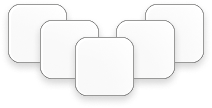
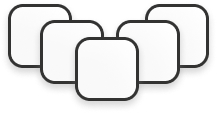
Update hero and FAQ cards with blue styling and background image
- Hero card: blue background, background image, removed animated header
- FAQ card: matches hero styling with blue background and image
- Moved "prefer to email" section outside FAQ card
- Updated card borders and padding

Changed region(s): [[0.0283, 0.0278, 0.9906, 0.9167]]

diff --git a/public/cleaner/index.html b/public/cleaner/index.html
@@ -34,39 +34,11 @@
         </div>
         <div class="hero__right">
           <div class="card-stack">
-            <div class="card-back"></div>
-            <div class="card">
-              <div class="card-header">
-                <div class="animated-bars">
-                  <div class="bar"></div><div class="bar"></div><div class="bar"></div><div class="bar"></div><div class="bar"></div>
-                  <div class="bar"></div><div class="bar"></div><div class="bar"></div><div class="bar"></div><div class="bar"></div>
-                  <div class="bar"></div><div class="bar"></div><div class="bar"></div><div class="bar"></div><div class="bar"></div>
-                  <div class="bar"></div><div class="bar"></div><div class="bar"></div><div class="bar"></div><div class="bar"></div>
-                  <div class="bar"></div><div class="bar"></div><div class="bar"></div><div class="bar"></div><div class="bar"></div>
-                  <div class="bar"></div><div class="bar"></div><div class="bar"></div><div class="bar"></div><div class="bar"></div>
-                  <div class="bar"></div><div class="bar"></div><div class="bar"></div><div class="bar"></div><div class="bar"></div>
-                  <div class="bar"></div><div class="bar"></div><div class="bar"></div><div class="bar"></div><div class="bar"></div>
-                </div>
-                <span class="pill">
-                  <span class="pill__dot"></span>
-                  start today
-                </span>
-              </div>
+            <div class="card-back card-back--blue"></div>
+            <div class="card card--blue hero-card">
               <h2 class="card__heading">join<br>happypages.</h2>
               <p class="card__tagline">ongoing conversion and growth optimisation for leaders who need to accelerate.</p>
               <button class="btn btn--coral btn--lg btn--full">see pricing</button>
-              <div class="book-call">
-                <div class="book-call__left">
-                  <img src="/assets/happypages-icon-white-alternate.png" alt="HappyPages" class="book-call__icon">
-                  <div class="book-call__text">
-                    <span class="book-call__title">book a 15-min intro call</span>
-                    <span class="book-call__link">schedule now</span>
-                  </div>
-                </div>
-                <button class="book-call__arrow" aria-label="Book a call">
-                  <span aria-hidden="true">→</span>
-                </button>
-              </div>
             </div>
           </div>
         </div>
@@ -567,38 +539,25 @@
         <!-- Right: CTA Card -->
         <div class="faq-right">
           <div class="card-stack">
-            <div class="card-back"></div>
-            <div class="card faq-card">
-              <div class="card-header">
-                <div class="animated-bars">
-                  <div class="bar"></div><div class="bar"></div><div class="bar"></div><div class="bar"></div><div class="bar"></div>
-                  <div class="bar"></div><div class="bar"></div><div class="bar"></div><div class="bar"></div><div class="bar"></div>
-                  <div class="bar"></div><div class="bar"></div><div class="bar"></div><div class="bar"></div><div class="bar"></div>
-                  <div class="bar"></div><div class="bar"></div><div class="bar"></div><div class="bar"></div><div class="bar"></div>
-                  <div class="bar"></div><div class="bar"></div><div class="bar"></div><div class="bar"></div><div class="bar"></div>
-                  <div class="bar"></div><div class="bar"></div><div class="bar"></div><div class="bar"></div><div class="bar"></div>
-                  <div class="bar"></div><div class="bar"></div><div class="bar"></div><div class="bar"></div><div class="bar"></div>
-                  <div class="bar"></div><div class="bar"></div><div class="bar"></div><div class="bar"></div><div class="bar"></div>
-                </div>
-                <span class="pill"><span class="pill__dot"></span>book a call</span>
-              </div>
+            <div class="card-back card-back--blue"></div>
+            <div class="card card--blue faq-card">
               <h2 class="card__heading">book a 15-min<br>intro call.</h2>
               <button class="faq-card__cta">book a call</button>
-              <div class="faq-email-row">
-                <div class="faq-email-left">
-                  <span class="faq-email-icon">
-                    <img src="/assets/happypages-icon-white-alternate.png" alt="">
-                  </span>
-                  <div class="faq-email-text">
-                    <span class="faq-email-label">prefer to email?</span>
-                    <span class="faq-email-address">alex@happypages.co</span>
-                  </div>
-                </div>
-                <button class="faq-email-arrow" aria-label="Send email">
-                  <span aria-hidden="true">→</span>
-                </button>
+            </div>
+          </div>
+          <div class="faq-email-row">
+            <div class="faq-email-left">
+              <span class="faq-email-icon">
+                <img src="/assets/happypages-icon-white-alternate.png" alt="">
+              </span>
+              <div class="faq-email-text">
+                <span class="faq-email-label">prefer to email?</span>
+                <span class="faq-email-address">alex@happypages.co</span>
               </div>
             </div>
+            <button class="faq-email-arrow" aria-label="Send email">
+              <span aria-hidden="true">→</span>
+            </button>
           </div>
         </div>
       </div>

diff --git a/public/cleaner/styles.css b/public/cleaner/styles.css
@@ -325,7 +325,10 @@ p {
 }
 
 .card-back--coral { background: var(--color-coral); }
-.card-back--blue { background: var(--color-blue); }
+.card-back--blue {
+  background: var(--color-blue);
+  border: none;
+}
 .card-back--cyan { background: var(--color-cyan); }
 
 /* Small offset variant for benefit cards */
@@ -367,6 +370,7 @@ p {
 .card--blue {
   background: var(--color-blue);
   color: var(--color-white);
+  border: none;
   box-shadow:
     var(--shadow-colored),
     0 4px 12px rgba(21,79,251,0.3);
@@ -654,6 +658,18 @@ p {
   width: 380px;
   position: relative;
   z-index: 1;
+}
+
+.hero-card {
+  background-image: url('/assets/happypages-hero-small-3.png');
+  background-size: cover;
+  background-position: center;
+  padding-bottom: calc(var(--card-padding) + 150px);
+  border: 2px solid var(--color-blue);
+}
+
+.hero-card .card__tagline {
+  color: var(--color-white);
 }
 
 /* Hero Responsive */
@@ -2066,14 +2082,19 @@ p {
   padding: var(--card-padding);
   display: flex;
   flex-direction: column;
+  background-image: url('/assets/happypages-hero-small-3.png');
+  background-size: cover;
+  background-position: center;
+  padding-bottom: calc(var(--card-padding) + 150px);
+  border: 2px solid var(--color-blue);
 }
 
 .faq-card .card__heading {
   margin-bottom: var(--space-5);
 }
 
-.faq-card .card-header.is-animating .bar {
-  animation-play-state: running;
+.faq-card .card__tagline {
+  color: var(--color-white);
 }
 
 .faq-card__cta {
@@ -2107,6 +2128,7 @@ p {
   box-shadow:
     inset 1px 1px 0 rgba(255,255,255,1),
     inset -1px -1px 0 rgba(0,0,0,0.05);
+  margin-top: var(--space-5);
 }
 
 .faq-email-left {
